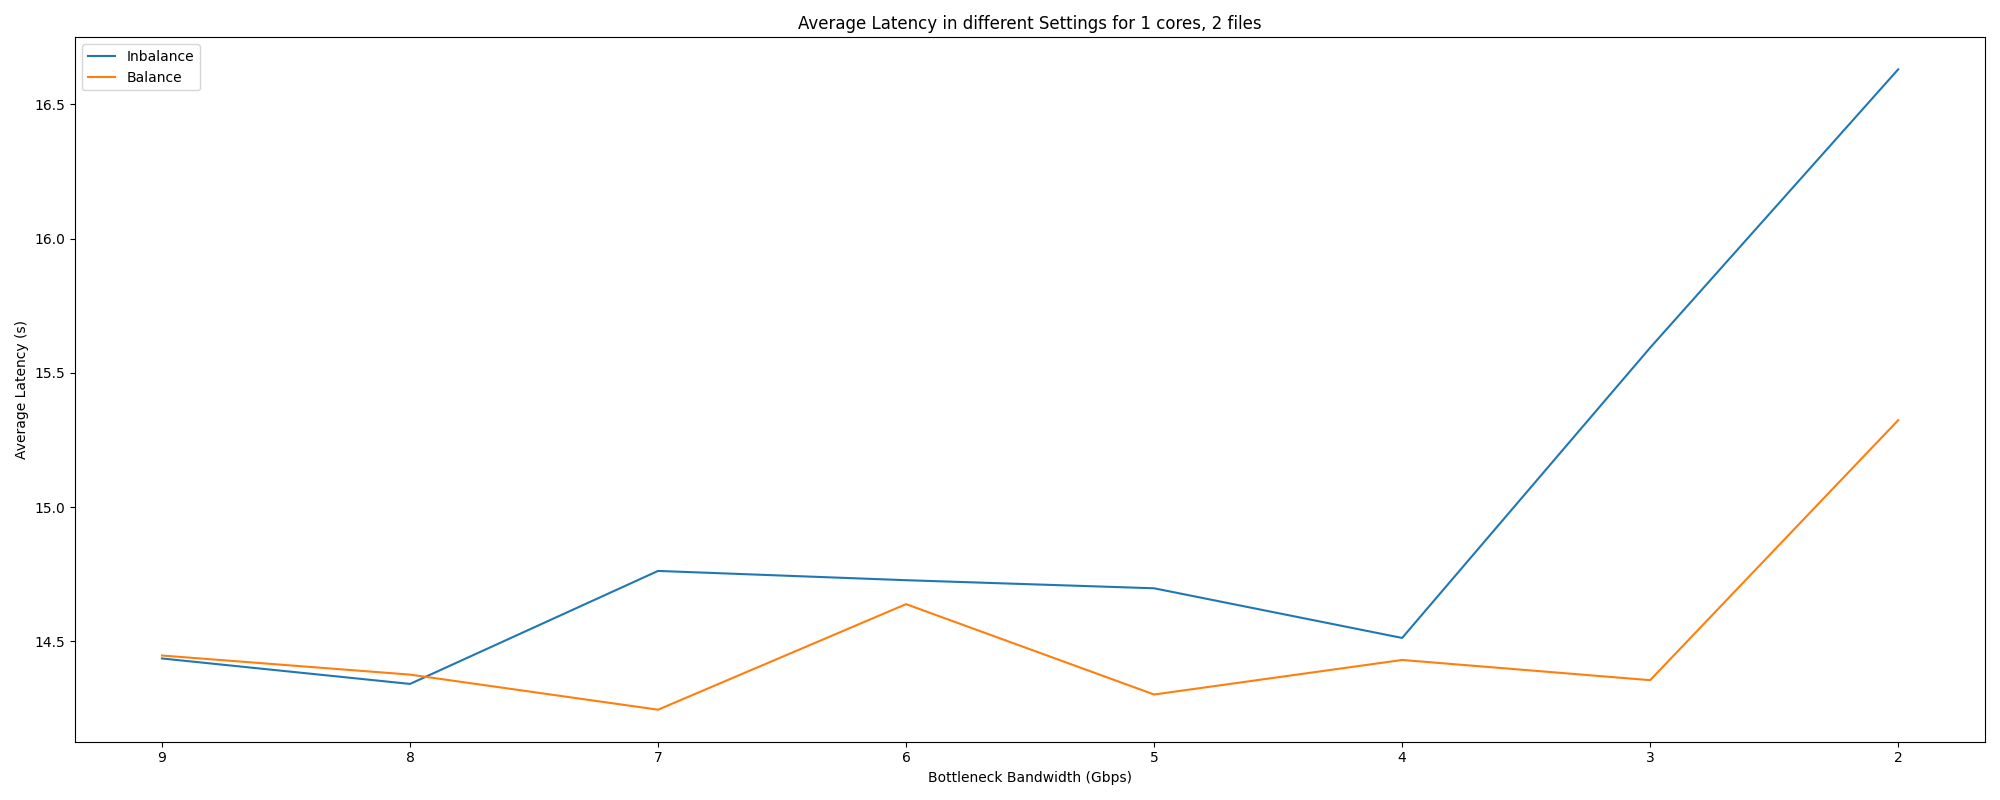
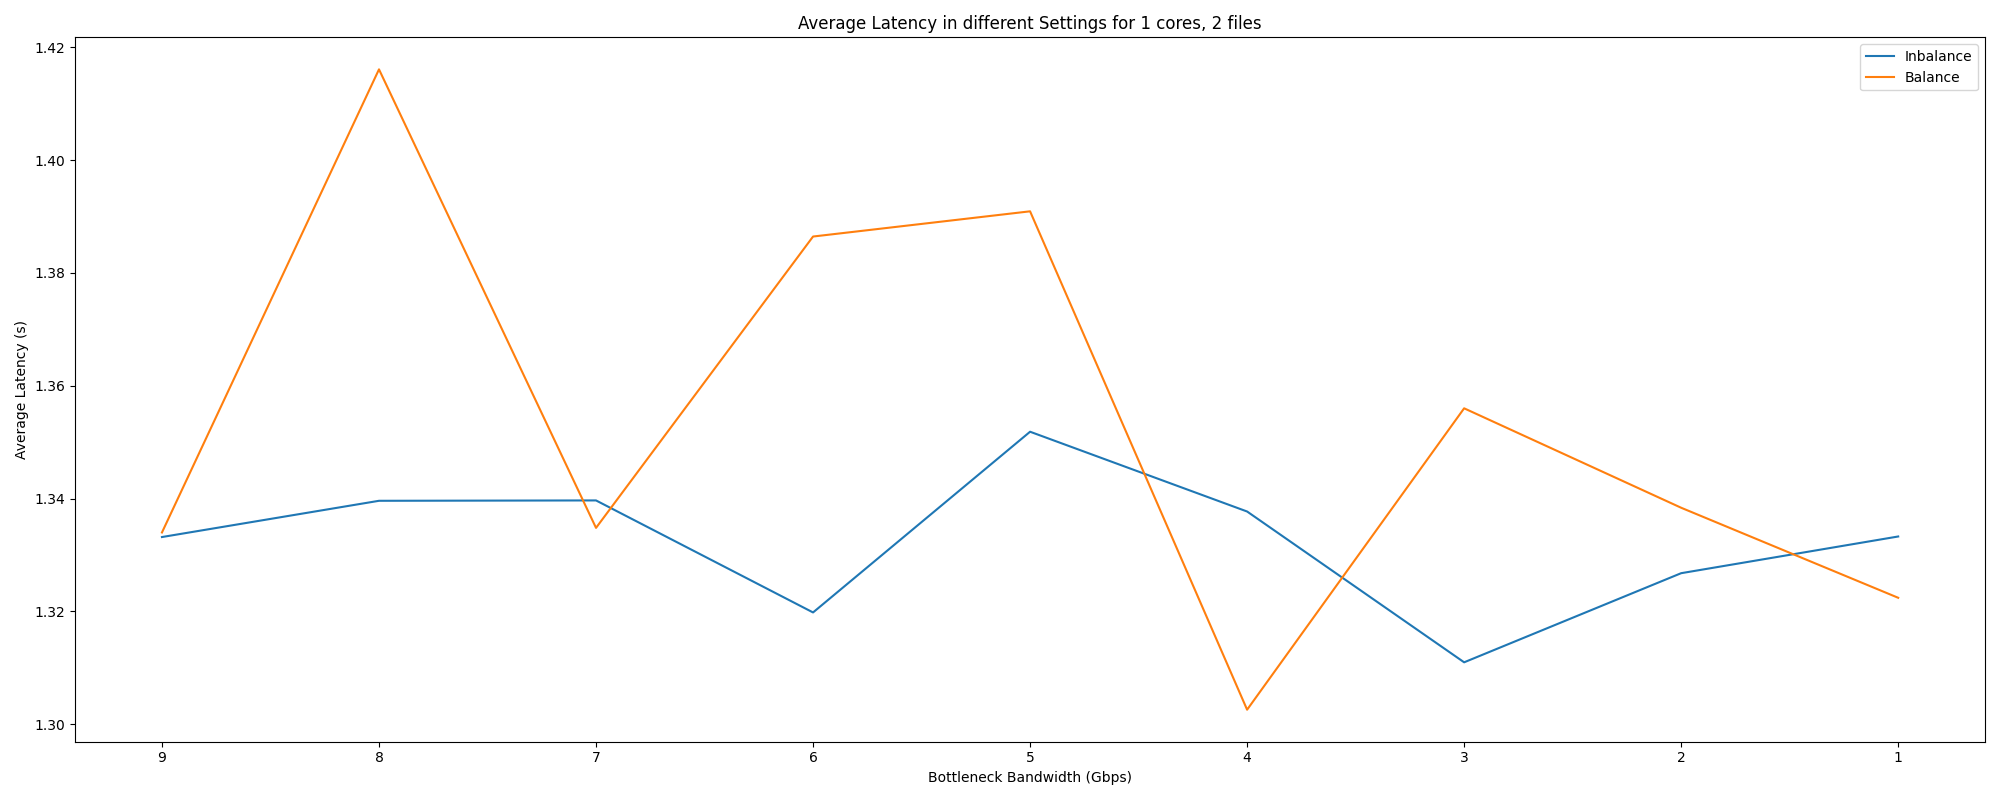
Fixing

diff --git a/docker/gen_settings.py b/docker/gen_settings.py
@@ -60,7 +60,7 @@ def main():
                             }
                             output.append(config)
             else:
-                for std_dev in range(1,10,1):
+                for std_dev in range(2, 4, 2):
                     bandwidth = [10 for _ in range(num_servers)]
                     bandwidth[0] = std_dev
                     for seq_num in range(0,repetition):
